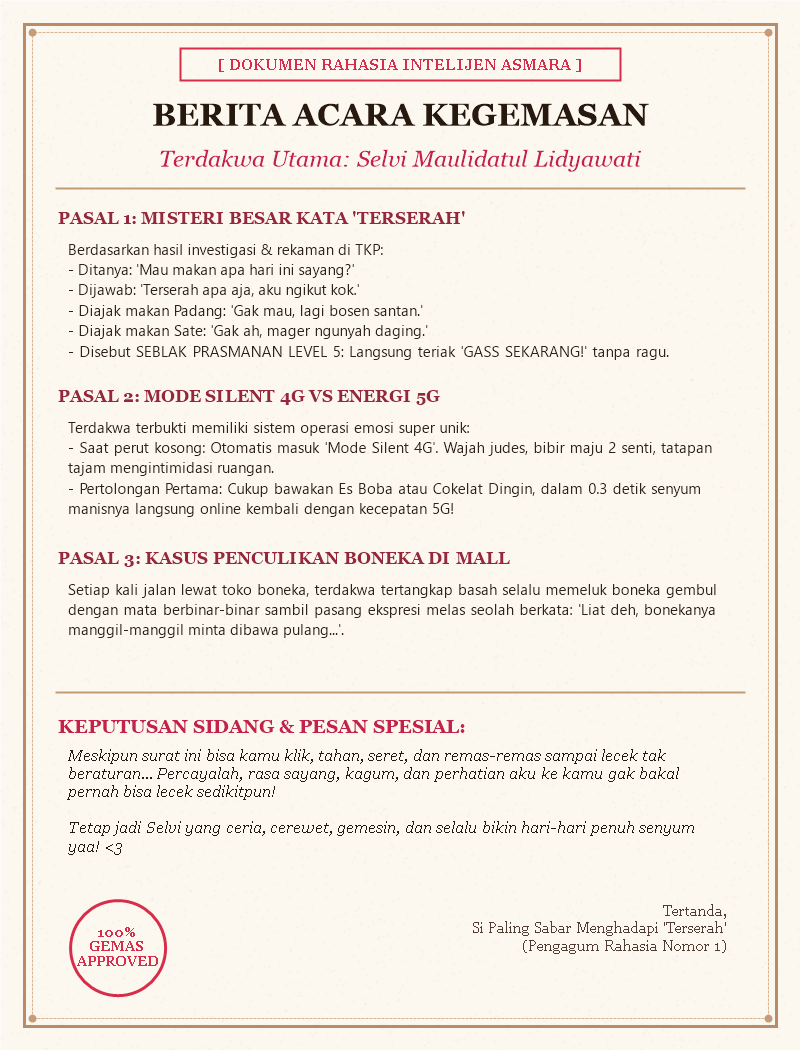
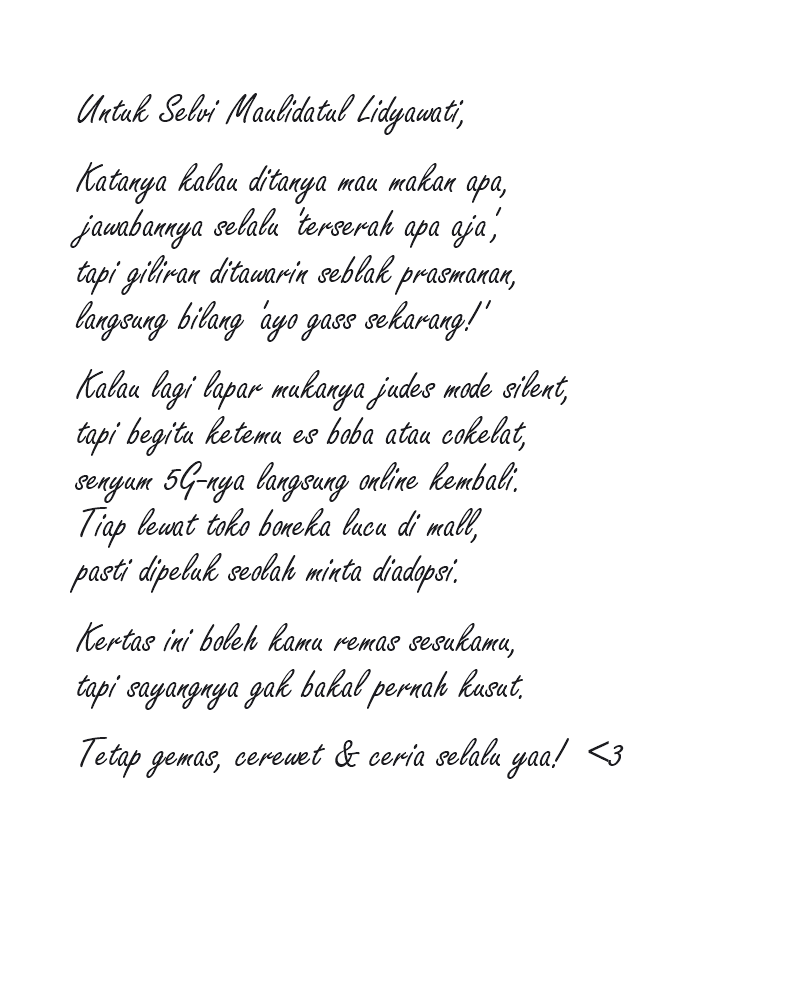
style: update PaperCrumple to clean white design with cursive handwritten note for Selvi

diff --git a/src/App.tsx b/src/App.tsx
@@ -122,20 +122,20 @@ function App() {
         />
       </div>
 
-      {/* Paper Crumple: Surat Rahasia & Cerita Lucu untuk Selvi Maulidatul Lidyawati */}
+      {/* Paper Crumple: Catatan Bersambung untuk Selvi Maulidatul Lidyawati */}
       <section className="paper-section">
         <div className="paper-section-badge">
-          <span className="badge-icon">📜</span>
-          <span>Surat Rahasia: Selvi Maulidatul Lidyawati</span>
+          <span className="badge-icon">✍</span>
+          <span>Catatan untuk Selvi Maulidatul Lidyawati</span>
         </div>
-        <p className="paper-hint">Klik, tahan & seret untuk meremas kertas 3D!</p>
+        <p className="paper-hint">Klik, tahan & seret kertas untuk meremas 3D</p>
 
         <div className="paper-container">
           <PaperCrumple
             src="/selvi-story.png"
-            alt="Surat Rahasia & Cerita Lucu untuk Selvi Maulidatul Lidyawati"
+            alt="Catatan Lucu untuk Selvi Maulidatul Lidyawati"
             width={320}
-            height={420}
+            height={400}
             sceneHeight={520}
             releaseBehavior="restore"
             crumpleAmount={0.85}
@@ -145,12 +145,12 @@ function App() {
             foldSharpness={0.6}
             wrinkleDepth={0.65}
             creaseStrength={0.18}
-            paperColor="#f5eee4"
-            paperTexture={0.08}
+            paperColor="#ffffff"
+            paperTexture={0.06}
             lightIntensity={1.8}
             lightAngle={-35}
             shadow={true}
-            shadowOpacity={0.1}
+            shadowOpacity={0.08}
             draggable={true}
             dragRotation={10}
             dragRadius={180}
